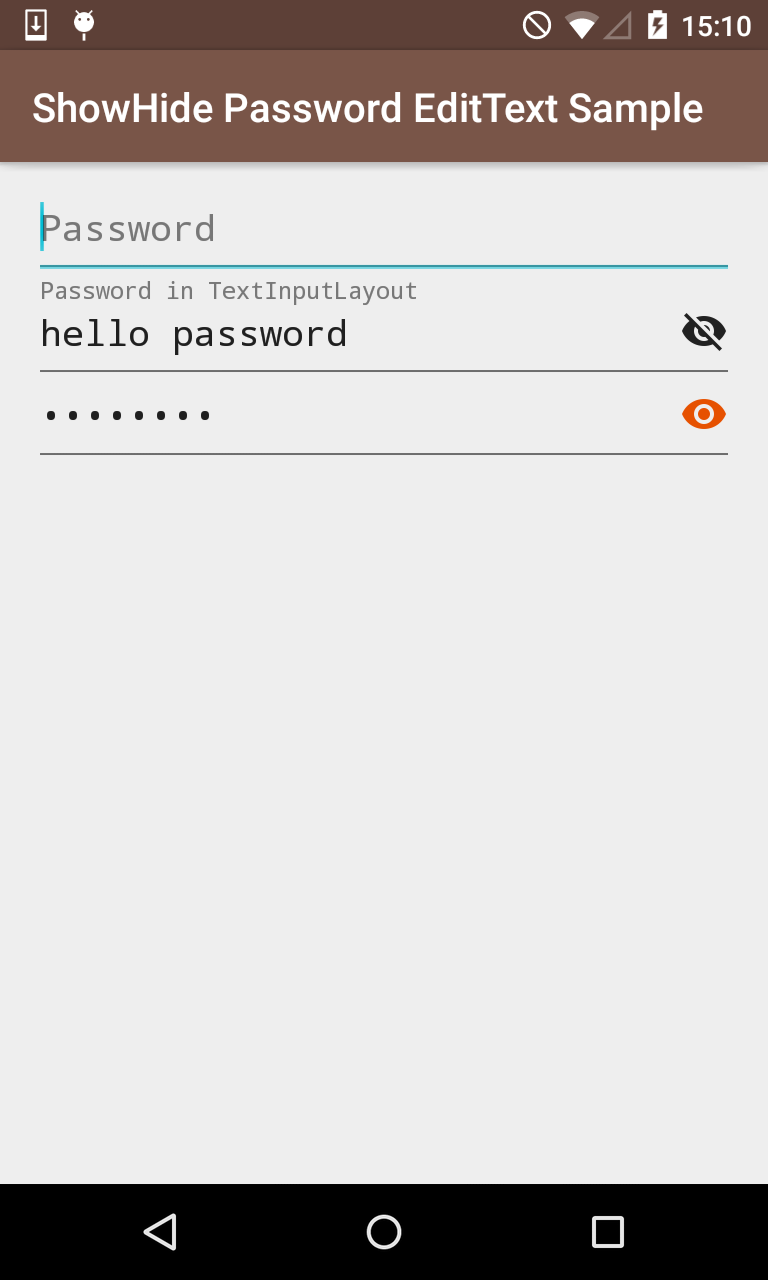
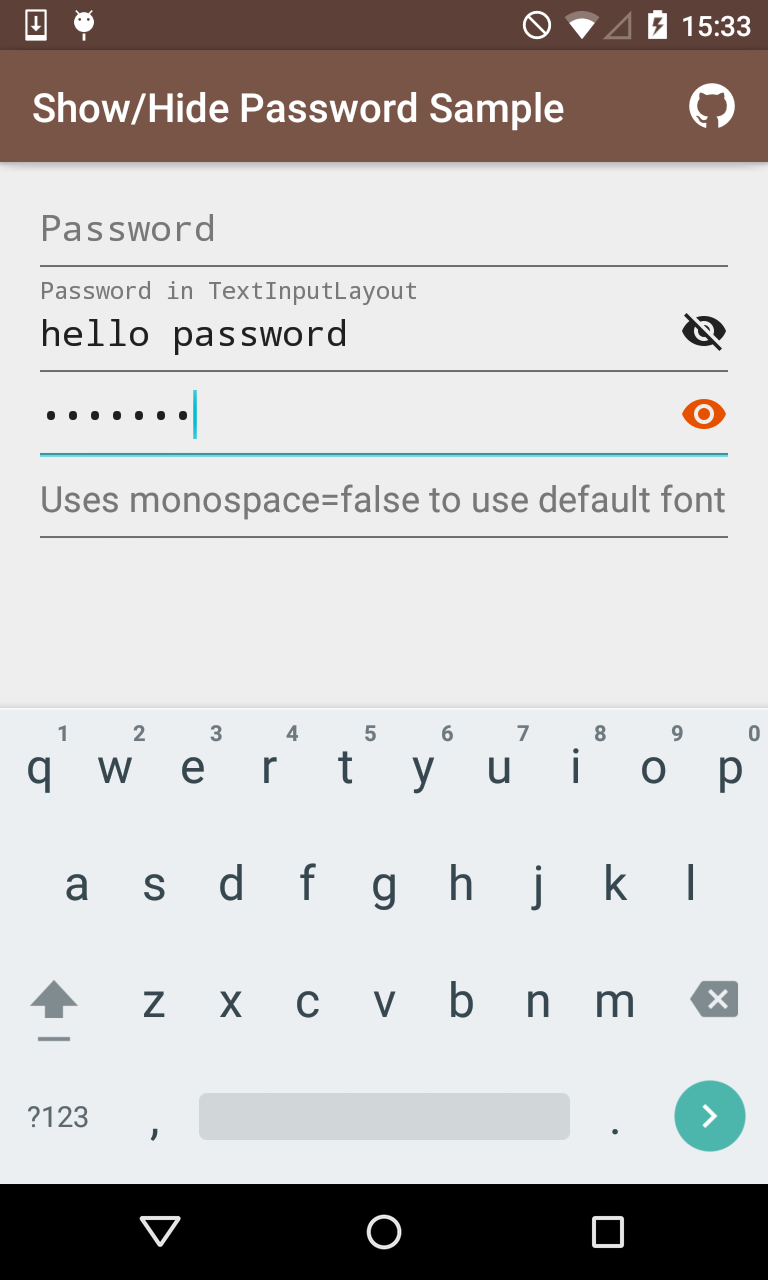
Updated sample and screenshot to include example of monospace attrib

diff --git a/app/src/main/java/com/scottyab/sample/MainActivity.java b/app/src/main/java/com/scottyab/sample/MainActivity.java
@@ -1,15 +1,22 @@
 package com.scottyab.sample;
 
+import android.content.Intent;
+import android.net.Uri;
 import android.os.Bundle;
 import android.support.design.widget.FloatingActionButton;
 import android.support.design.widget.Snackbar;
 import android.support.v7.app.AppCompatActivity;
 import android.support.v7.widget.Toolbar;
+import android.view.Menu;
+import android.view.MenuItem;
 import android.view.View;
 
 import com.scottyab.sample.R;
 
 public class MainActivity extends AppCompatActivity {
+
+  private static String GITHUB_LINK = "https://github.com/scottyab/showhidepasswordedittext";
+
 
   @Override
   protected void onCreate(Bundle savedInstanceState) {
@@ -17,9 +24,26 @@ public class MainActivity extends AppCompatActivity {
     setContentView(R.layout.activity_main);
     Toolbar toolbar = (Toolbar) findViewById(R.id.toolbar);
     setSupportActionBar(toolbar);
+  }
 
 
+  @Override
+  public boolean onCreateOptionsMenu(Menu menu) {
+    // Inflate the menu; this adds items to the action bar if it is present.
+    getMenuInflater().inflate(R.menu.menu_main, menu);
+    return true;
+  }
 
+  @Override
+  public boolean onOptionsItemSelected(MenuItem item) {
+    int id = item.getItemId();
+    if (id == R.id.action_github) {
+      Intent i = new Intent(Intent.ACTION_VIEW);
+      i.setData(Uri.parse(GITHUB_LINK));
+      startActivity(i);
+      return true;
+    }
+    return super.onOptionsItemSelected(item);
   }
 
 }
